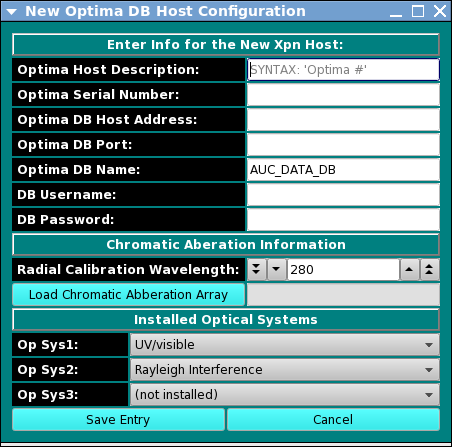
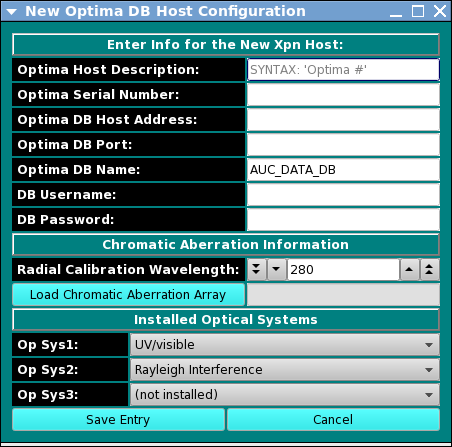
optima config additional mods for spelling and the like

Changed region(s): [[0.2168, 0.5235, 0.7743, 0.5817], [0.0619, 0.6398, 0.5265, 0.6689]]

diff --git a/programs/us_config/us_newxpnhost_db.cpp b/programs/us_config/us_newxpnhost_db.cpp
@@ -89,7 +89,7 @@ US_NewXpnHostDB::US_NewXpnHostDB() : US_Widgets()
    details->addWidget( le_pasw,        row++, 2, 1, 2 );
 
    //Row 6a
-   QLabel* bn_chromoab   = us_banner( tr( "Chromatic Aberation Information" ) );
+   QLabel* bn_chromoab   = us_banner( tr( "Chromatic Aberration Information" ) );
    details->addWidget( bn_chromoab,      row++, 0, 1, 4 );
 
    //Row 6b
@@ -100,7 +100,7 @@ US_NewXpnHostDB::US_NewXpnHostDB() : US_Widgets()
    details->addWidget( ct_radcalwvl,    row++, 2, 1, 2 );
    
    //Row 6c
-   QPushButton* pb_loadchromo     = us_pushbutton( tr( "Load Chromatic Abberation Array" ) );
+   QPushButton* pb_loadchromo     = us_pushbutton( tr( "Load Chromatic Aberration Array" ) );
    le_chromofile          = us_lineedit( "", 0, true );
    details->addWidget( pb_loadchromo,    row,   0, 1, 2 );
    details->addWidget( le_chromofile,    row++, 2, 1, 2 );  
@@ -228,7 +228,7 @@ US_NewXpnHostDB::US_NewXpnHostDB( QMap <QString,QString> currentInstrument ) : U
    details->addWidget( le_pasw,        row++, 2, 1, 2 );
 
    //Row 6a
-   QLabel* bn_chromoab   = us_banner( tr( "Chromatic Aberation Information" ) );
+   QLabel* bn_chromoab   = us_banner( tr( "Chromatic Aberration Information" ) );
    details->addWidget( bn_chromoab,      row++, 0, 1, 4 );
 
    //Row 6b
@@ -239,7 +239,7 @@ US_NewXpnHostDB::US_NewXpnHostDB( QMap <QString,QString> currentInstrument ) : U
    details->addWidget( ct_radcalwvl,    row++, 2, 1, 2 );
    
    //Row 6c
-   QPushButton* pb_loadchromo     = us_pushbutton( tr( "Load Chromatic Abberation Array" ) );
+   QPushButton* pb_loadchromo     = us_pushbutton( tr( "Load Chromatic Aberration Array" ) );
    le_chromofile          = us_lineedit( "", 0, true );
    details->addWidget( pb_loadchromo,    row,   0, 1, 2 );
    details->addWidget( le_chromofile,    row++, 2, 1, 2 );

diff --git a/programs/us_config/us_xpnhost_db.cpp b/programs/us_config/us_xpnhost_db.cpp
@@ -113,7 +113,7 @@ US_XpnHostDB::US_XpnHostDB( QWidget* w, Qt::WindowFlags flags )
    details->addWidget( le_pasw,        row++, 2, 1, 2 );
 
    //Row 6a
-   QLabel* bn_chromoab   = us_banner( tr( "Chromatic Aberation Information" ) );
+   QLabel* bn_chromoab   = us_banner( tr( "Chromatic Aberration Information" ) );
    details->addWidget( bn_chromoab,      row++, 0, 1, 4 );
 
    //Row 6b
